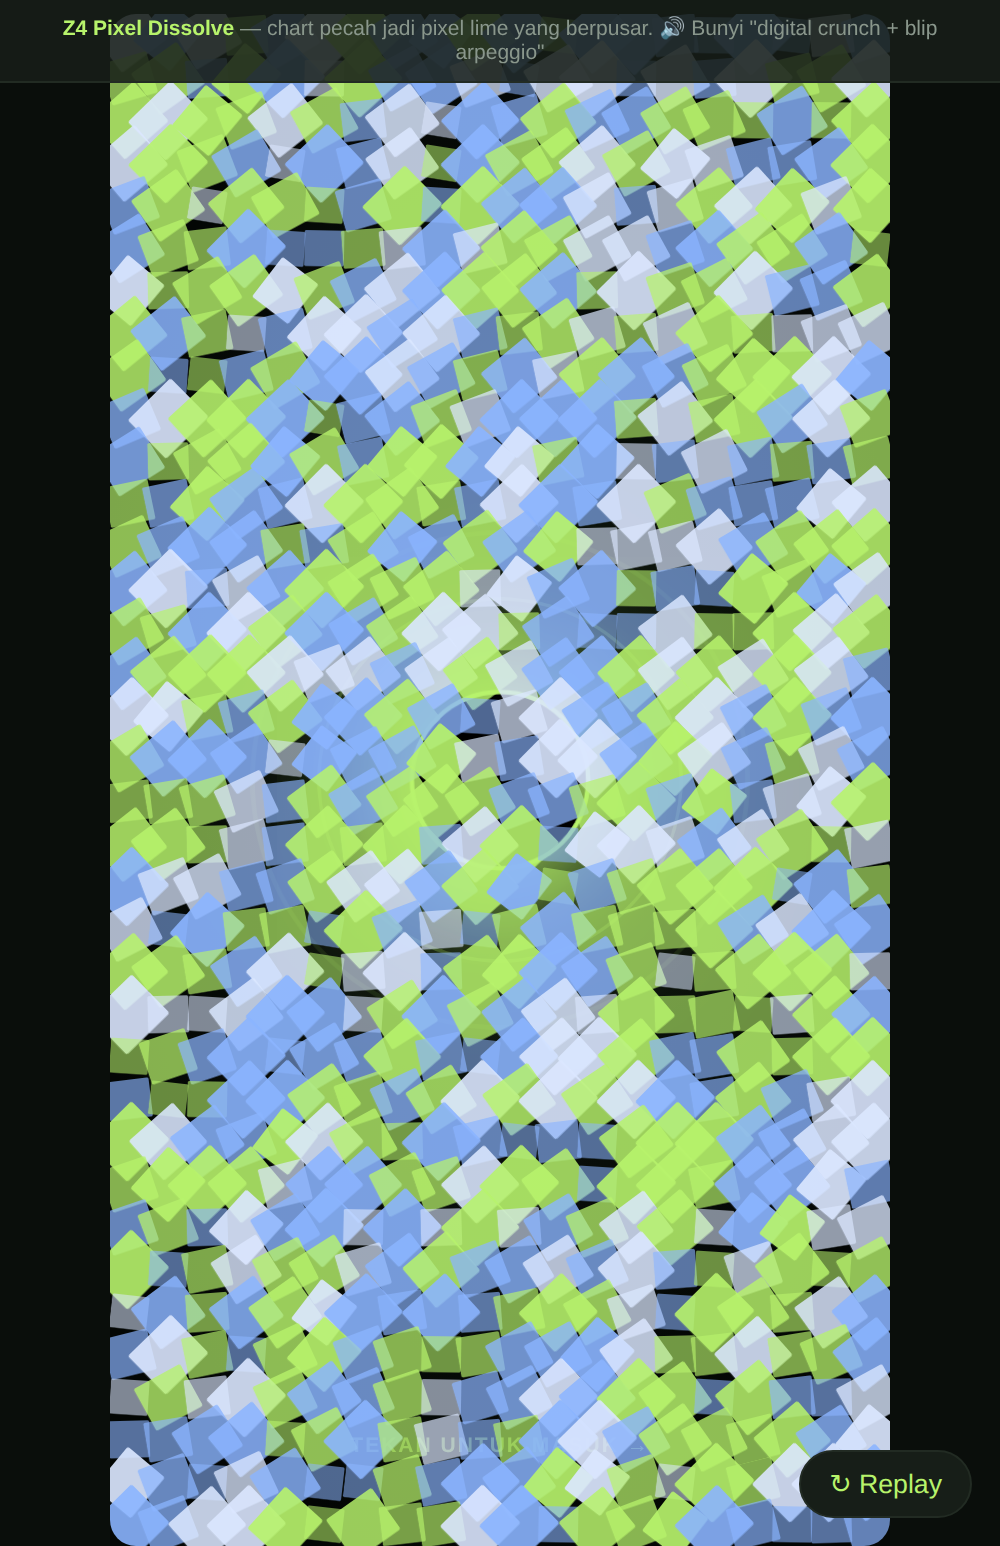
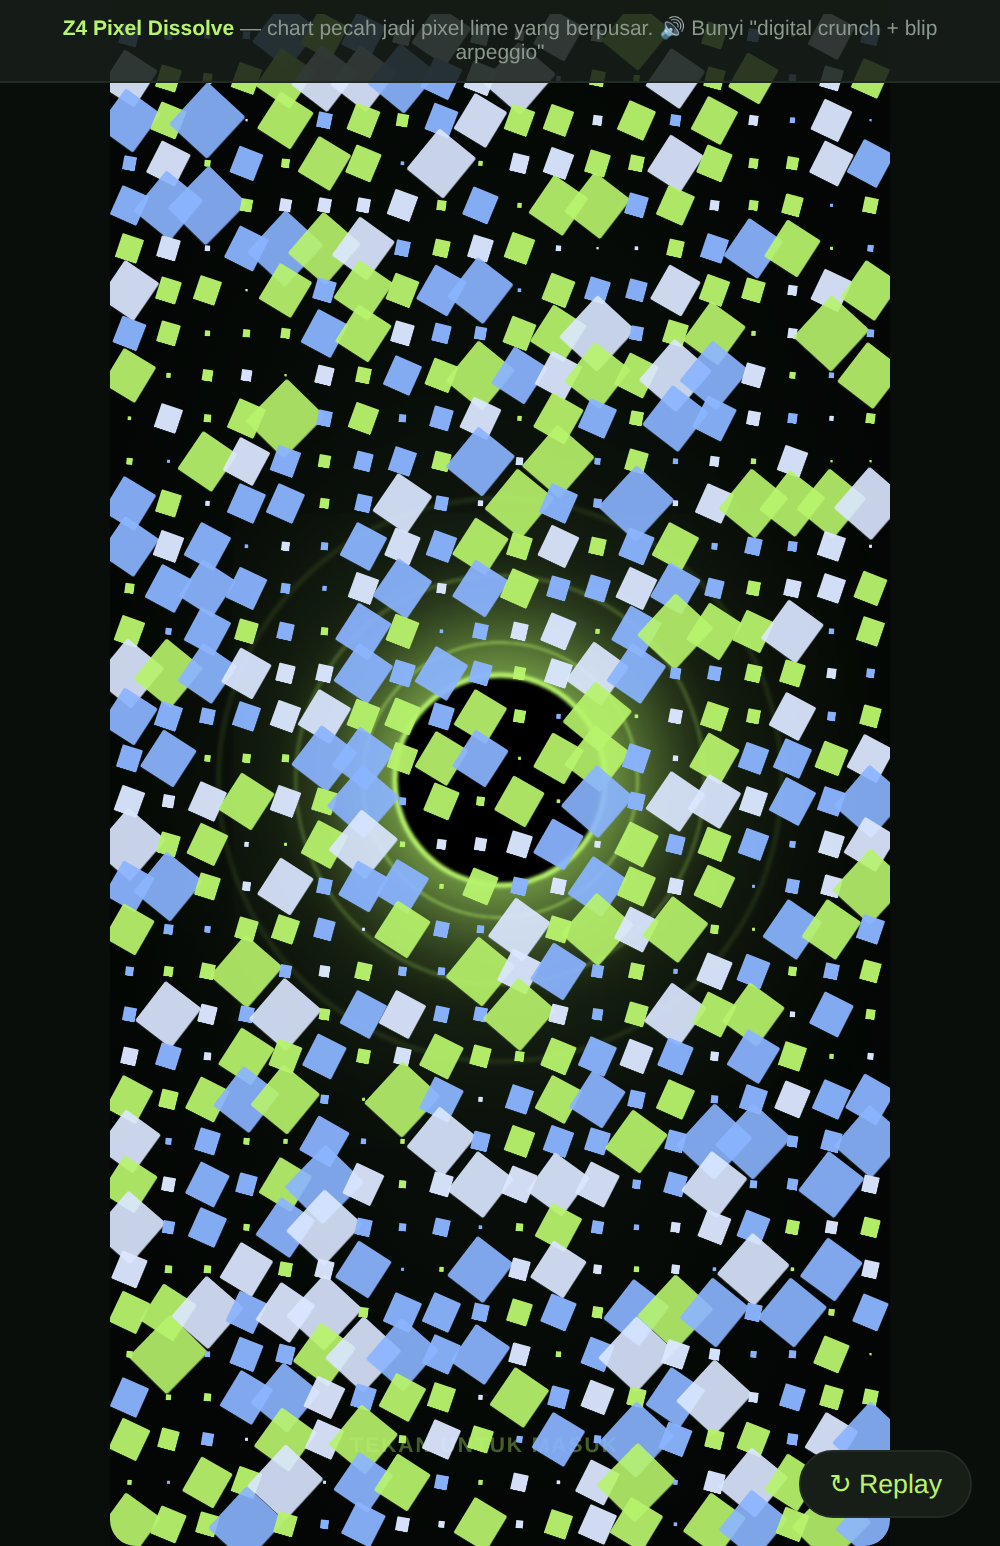
fix: perlahankan zoom 0.3s→1.5s dengan keyframe bertahap (1→1.6→4.5→20×) — sebelum ini zoom habis dalam 300ms jadi nampak macam tak zoom; easing cubic-bezier(.35,0,.65,1); sync timing void→onboarding

diff --git a/preview/zoom-z5-candles.html b/preview/zoom-z5-candles.html
@@ -27,15 +27,15 @@ body{background:#0a0e0b;color:var(--text);font:14px -apple-system,sans-serif}
 .tap{position:absolute;bottom:44px;font-size:10.5px;color:var(--lime);font-weight:800;letter-spacing:1px;animation:bl 1.6s infinite;z-index:7}
 @keyframes bl{0%,100%{opacity:.3}50%{opacity:1}}
 /* zoom: candles fall inward */
-#intro.go .candles{animation:candSpin .9s cubic-bezier(.6,0,.9,.4) forwards}
+#intro.go .candles{animation:candSpin 1.5s cubic-bezier(.35,0,.65,1) forwards}
 @keyframes candSpin{0%{transform:rotate(0) scale(1);opacity:1}100%{transform:rotate(-540deg) scale(.03);opacity:0}}
-#intro.go .bh{animation:bhZoom .9s cubic-bezier(.6,0,.9,.4) forwards}
-@keyframes bhZoom{0%{transform:scale(1)}100%{transform:scale(16)}}
+#intro.go .bh{animation:bhZoom 1.5s cubic-bezier(.35,0,.65,1) forwards}
+@keyframes bhZoom{0%{transform:scale(1)}30%{transform:scale(1.5)}65%{transform:scale(4)}100%{transform:scale(16)}}
 #intro.go .brand,#intro.go .tap{opacity:0}
 #intro.go .itxt{opacity:0;transform:translateY(40px)}
 /* price line sweep */
 #pline{position:absolute;left:0;right:0;height:2px;background:linear-gradient(90deg,transparent,var(--lime),transparent);z-index:6;opacity:0;top:50%}
-#intro.go #pline{animation:psweep .8s ease-in-out forwards}
+#intro.go #pline{animation:psweep 1.4s ease-in-out forwards}
 @keyframes psweep{0%{opacity:0;transform:scaleX(0)}30%{opacity:1;transform:scaleX(1)}100%{opacity:0;transform:scaleX(1.4)}}
 #void{position:absolute;inset:0;z-index:15;background:#000;opacity:0;transition:opacity .25s}
 #void.on{opacity:1}
@@ -113,9 +113,9 @@ function candleSound(){
  intro.onclick=function(){
   if(busy)return;busy=true;try{candleSound()}catch(e){}
   intro.classList.add('go');
-  setTimeout(function(){document.getElementById('void').classList.add('on')},900);
+  setTimeout(function(){document.getElementById('void').classList.add('on')},1450);
   setTimeout(function(){intro.style.display='none';document.getElementById('on').classList.add('show');
-   setTimeout(function(){var v=document.getElementById('void');v.style.transition='opacity .6s';v.classList.remove('on')},120)},1200);
+   setTimeout(function(){var v=document.getElementById('void');v.style.transition='opacity .6s';v.classList.remove('on')},120)},1750);
  };
 })();
 </script></body></html>

diff --git a/preview/zoom-z3-gravity.html b/preview/zoom-z3-gravity.html
@@ -34,12 +34,12 @@ body{background:#0a0e0b;color:var(--text);font:14px -apple-system,sans-serif}
 .tap{position:absolute;bottom:44px;font-size:10.5px;color:var(--lime);font-weight:800;letter-spacing:1px;animation:bl 1.6s infinite;z-index:7}
 @keyframes bl{0%,100%{opacity:.3}50%{opacity:1}}
 /* zoom: orbit + bh spiral mengecil masuk */
-#intro.go .orbit{animation:orbitRush .95s cubic-bezier(.6,0,.9,.4) forwards}
+#intro.go .orbit{animation:orbitRush 1.5s cubic-bezier(.35,0,.65,1) forwards}
 @keyframes orbitRush{0%{transform:rotate(0) scale(1)}100%{transform:rotate(900deg) scale(18)}}
-#intro.go .spiral{animation:spiralRush .95s cubic-bezier(.6,0,.9,.4) forwards}
+#intro.go .spiral{animation:spiralRush 1.5s cubic-bezier(.35,0,.65,1) forwards}
 @keyframes spiralRush{0%{transform:rotate(0) scale(1);opacity:1}100%{transform:rotate(-1080deg) scale(.02);opacity:0}}
-#intro.go .bh{animation:bhSuck .95s cubic-bezier(.6,0,.9,.4) forwards}
-@keyframes bhSuck{0%{transform:scale(1)}100%{transform:scale(15)}}
+#intro.go .bh{animation:bhSuck 1.5s cubic-bezier(.35,0,.65,1) forwards}
+@keyframes bhSuck{0%{transform:scale(1)}30%{transform:scale(1.5)}65%{transform:scale(4)}100%{transform:scale(15)}}
 #intro.go .brand,#intro.go .tap{opacity:0}
 #intro.go .itxt{opacity:0;transform:translateY(40px)}
 #void{position:absolute;inset:0;z-index:15;background:#000;opacity:0;transition:opacity .25s}
@@ -109,9 +109,9 @@ function gravitySound(){
  intro.onclick=function(){
   if(busy)return;busy=true;try{gravitySound()}catch(e){}
   intro.classList.add('go');
-  setTimeout(function(){document.getElementById('void').classList.add('on')},930);
+  setTimeout(function(){document.getElementById('void').classList.add('on')},1450);
   setTimeout(function(){intro.style.display='none';document.getElementById('on').classList.add('show');
-   setTimeout(function(){var v=document.getElementById('void');v.style.transition='opacity .6s';v.classList.remove('on')},120)},1230);
+   setTimeout(function(){var v=document.getElementById('void');v.style.transition='opacity .6s';v.classList.remove('on')},120)},1750);
  };
 })();
 </script></body></html>

diff --git a/preview/zoom-z1-tunnel.html b/preview/zoom-z1-tunnel.html
@@ -27,10 +27,10 @@ body{background:#0a0e0b;color:var(--text);font:14px -apple-system,sans-serif}
 .tap{position:absolute;bottom:44px;font-size:10.5px;color:var(--lime);font-weight:800;letter-spacing:1px;animation:bl 1.6s infinite;z-index:6}
 @keyframes bl{0%,100%{opacity:.3}50%{opacity:1}}
 /* ZOOM: cincin rush past camera */
-#intro.go .tunnel .ring{animation:ringRush .95s cubic-bezier(.5,0,.9,.4) forwards}
+#intro.go .tunnel .ring{animation:ringRush 1.5s cubic-bezier(.35,0,.65,1) forwards}
 @keyframes ringRush{0%{transform:translateZ(-600px) scale(.4);opacity:0}12%{opacity:.95}100%{transform:translateZ(500px) scale(3.4);opacity:0}}
-#intro.go .core{animation:coreZoom 1.05s cubic-bezier(.6,0,.9,.35) forwards}
-@keyframes coreZoom{0%{transform:scale(1)}100%{transform:scale(22)}}
+#intro.go .core{animation:coreZoom 1.5s cubic-bezier(.35,0,.65,1) forwards}
+@keyframes coreZoom{0%{transform:scale(1)}30%{transform:scale(1.6)}65%{transform:scale(4.5)}100%{transform:scale(20)}}
 #intro.go .brand,#intro.go .tap{opacity:0}
 #intro.go .itxt{opacity:0;transform:translateY(50px)}
 #void{position:absolute;inset:0;z-index:15;background:#000;opacity:0;transition:opacity .25s}
@@ -101,9 +101,9 @@ function wormholeSound(){
   var rings=tn.querySelectorAll('.ring');
   rings.forEach(function(r,i){r.style.animationDelay=(i*0.07).toFixed(2)+'s'});
   intro.classList.add('go');
-  setTimeout(function(){document.getElementById('void').classList.add('on')},1150);
+  setTimeout(function(){document.getElementById('void').classList.add('on')},1500);
   setTimeout(function(){intro.style.display='none';document.getElementById('on').classList.add('show');
-   setTimeout(function(){var v=document.getElementById('void');v.style.transition='opacity .6s';v.classList.remove('on')},120)},1450);
+   setTimeout(function(){var v=document.getElementById('void');v.style.transition='opacity .6s';v.classList.remove('on')},120)},1800);
  };
 })();
 </script></body></html>

diff --git a/preview/zoom-z4-pixel.html b/preview/zoom-z4-pixel.html
@@ -28,14 +28,14 @@ body{background:#0a0e0b;color:var(--text);font:14px -apple-system,sans-serif}
 #pixels{position:absolute;inset:0;z-index:8;display:grid;pointer-events:none;opacity:0}
 #pixels i{background:var(--lime);border-radius:1px;transform:scale(0)}
 #intro.go #pixels{opacity:1}
-#intro.go #pixels i{animation:pix .85s ease-in forwards}
+#intro.go #pixels i{animation:pix 1.2s ease-in forwards}
 @keyframes pix{
  0%{transform:scale(0) rotate(0);opacity:1}
  35%{transform:scale(1.4) rotate(45deg);opacity:.9}
  100%{transform:scale(0) rotate(180deg);opacity:0}
 }
-#intro.go .bh{animation:bhZoom .7s cubic-bezier(.7,0,.9,.4) forwards}
-@keyframes bhZoom{0%{transform:scale(1);filter:blur(0)}100%{transform:scale(13);filter:blur(14px)}}
+#intro.go .bh{animation:bhZoom 1.2s cubic-bezier(.35,0,.65,1) forwards}
+@keyframes bhZoom{0%{transform:scale(1);filter:blur(0)}30%{transform:scale(1.4);filter:blur(1px)}65%{transform:scale(3.5);filter:blur(5px)}100%{transform:scale(13);filter:blur(14px)}}
 #intro.go .brand,#intro.go .tap,#intro.go .itxt{opacity:0}
 #void{position:absolute;inset:0;z-index:15;background:#050807;opacity:0;transition:opacity .2s}
 #void.on{opacity:1}
@@ -104,9 +104,9 @@ function pixelSound(){
  intro.onclick=function(){
   if(busy)return;busy=true;try{pixelSound()}catch(e){}
   intro.classList.add('go');
-  setTimeout(function(){document.getElementById('void').classList.add('on')},700);
+  setTimeout(function(){document.getElementById('void').classList.add('on')},1150);
   setTimeout(function(){intro.style.display='none';document.getElementById('on').classList.add('show');
-   setTimeout(function(){var v=document.getElementById('void');v.style.transition='opacity .5s';v.classList.remove('on')},120)},980);
+   setTimeout(function(){var v=document.getElementById('void');v.style.transition='opacity .5s';v.classList.remove('on')},120)},1450);
  };
 })();
 </script></body></html>

diff --git a/preview/zoom-z2-flare.html b/preview/zoom-z2-flare.html
@@ -36,11 +36,11 @@ body{background:#0a0e0b;color:var(--text);font:14px -apple-system,sans-serif}
 .chroma.c1{border-color:#ff4d6d}.chroma.c2{border-color:#4dd2ff}
 /* zoom seq */
 #intro.flash{background:#eaffd6}
-#intro.go .bh{animation:bhZoom .85s cubic-bezier(.7,0,.9,.35) forwards}
-@keyframes bhZoom{0%{transform:scale(1)}100%{transform:scale(20)}}
+#intro.go .bh{animation:bhZoom 1.3s cubic-bezier(.35,0,.65,1) forwards}
+@keyframes bhZoom{0%{transform:scale(1)}30%{transform:scale(1.5)}65%{transform:scale(4)}100%{transform:scale(18)}}
 #intro.go .brand,#intro.go .tap{opacity:0}
 #intro.go .itxt{opacity:0;transform:scale(1.2);filter:blur(6px)}
-#intro.go .flare{opacity:1;animation:flareOut .9s ease-out forwards}
+#intro.go .flare{opacity:1;animation:flareOut 1.3s ease-out forwards}
 @keyframes flareOut{0%{transform:translate(-50%,-50%) scale(.1) rotate(0);opacity:1}60%{opacity:1}100%{transform:translate(-50%,-50%) scale(2.6) rotate(18deg);opacity:0}}
 #intro.go .flare .burst{animation:rayLen .9s ease-out forwards}
 @keyframes rayLen{0%{height:0}50%{height:400px}100%{height:120px}}
@@ -117,9 +117,9 @@ function flareSound(){
  intro.onclick=function(){
   if(busy)return;busy=true;try{flareSound()}catch(e){}
   intro.classList.add('go');
-  setTimeout(function(){intro.classList.add('flash');document.getElementById('void').classList.add('on')},520);
+  setTimeout(function(){intro.classList.add('flash');document.getElementById('void').classList.add('on')},900);
   setTimeout(function(){intro.style.display='none';document.getElementById('on').classList.add('show');
-   setTimeout(function(){var v=document.getElementById('void');v.style.transition='opacity .5s';v.classList.remove('on')},120)},850);
+   setTimeout(function(){var v=document.getElementById('void');v.style.transition='opacity .5s';v.classList.remove('on')},120)},1300);
  };
 })();
 </script></body></html>
